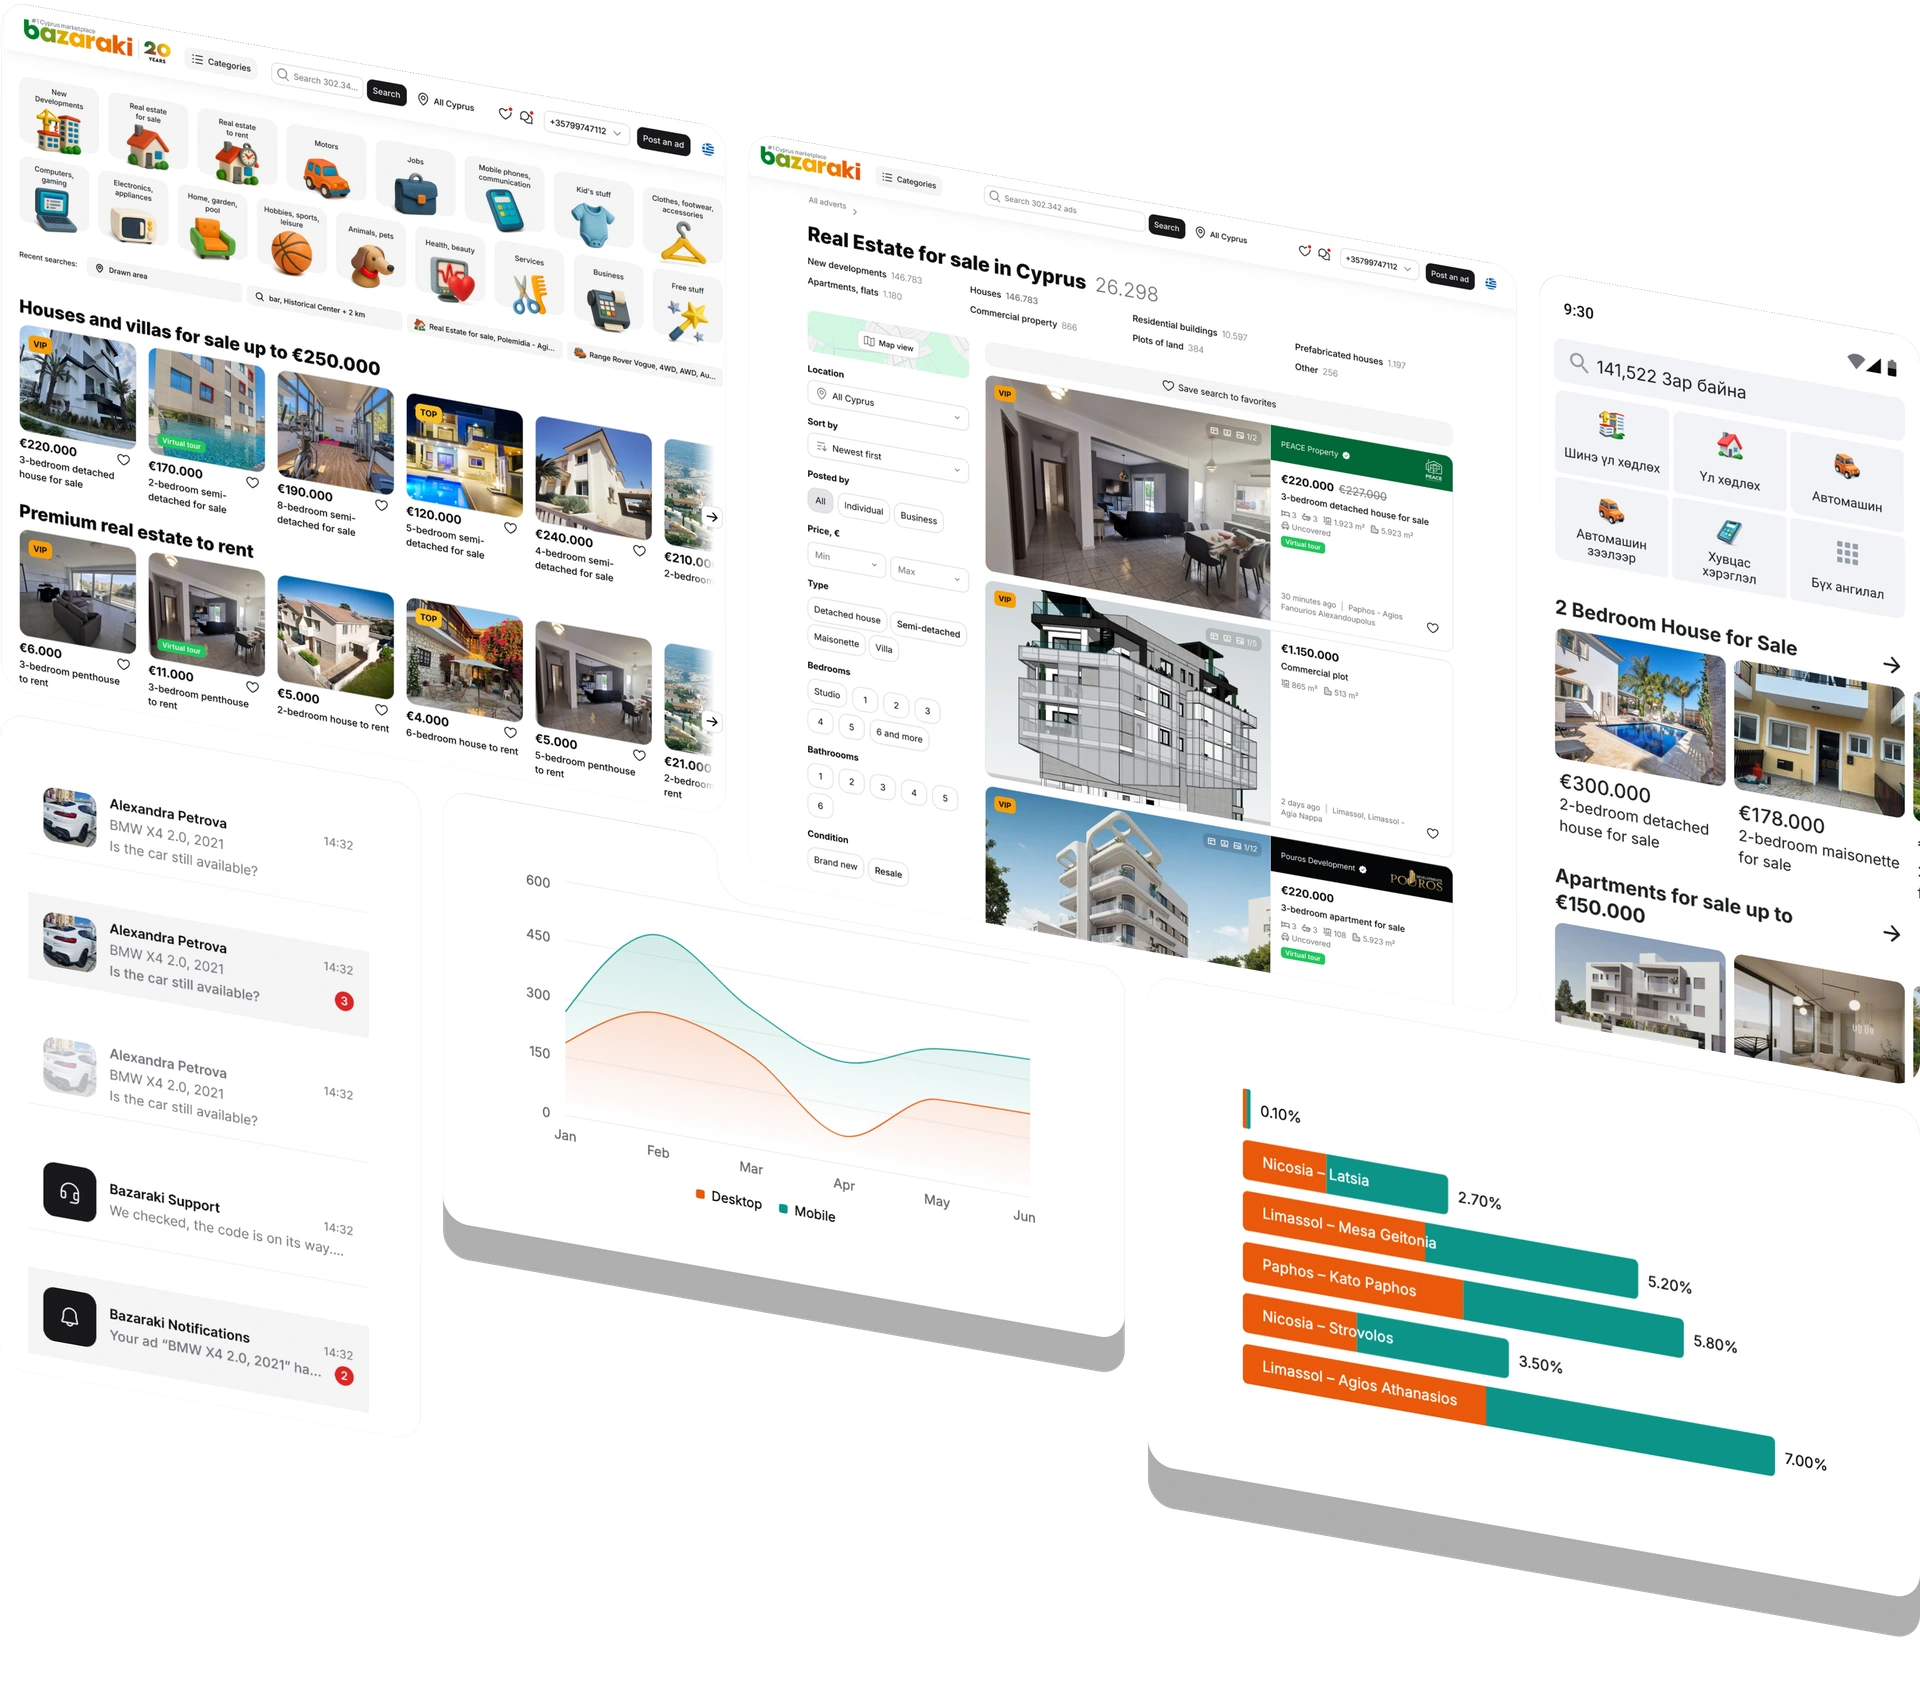
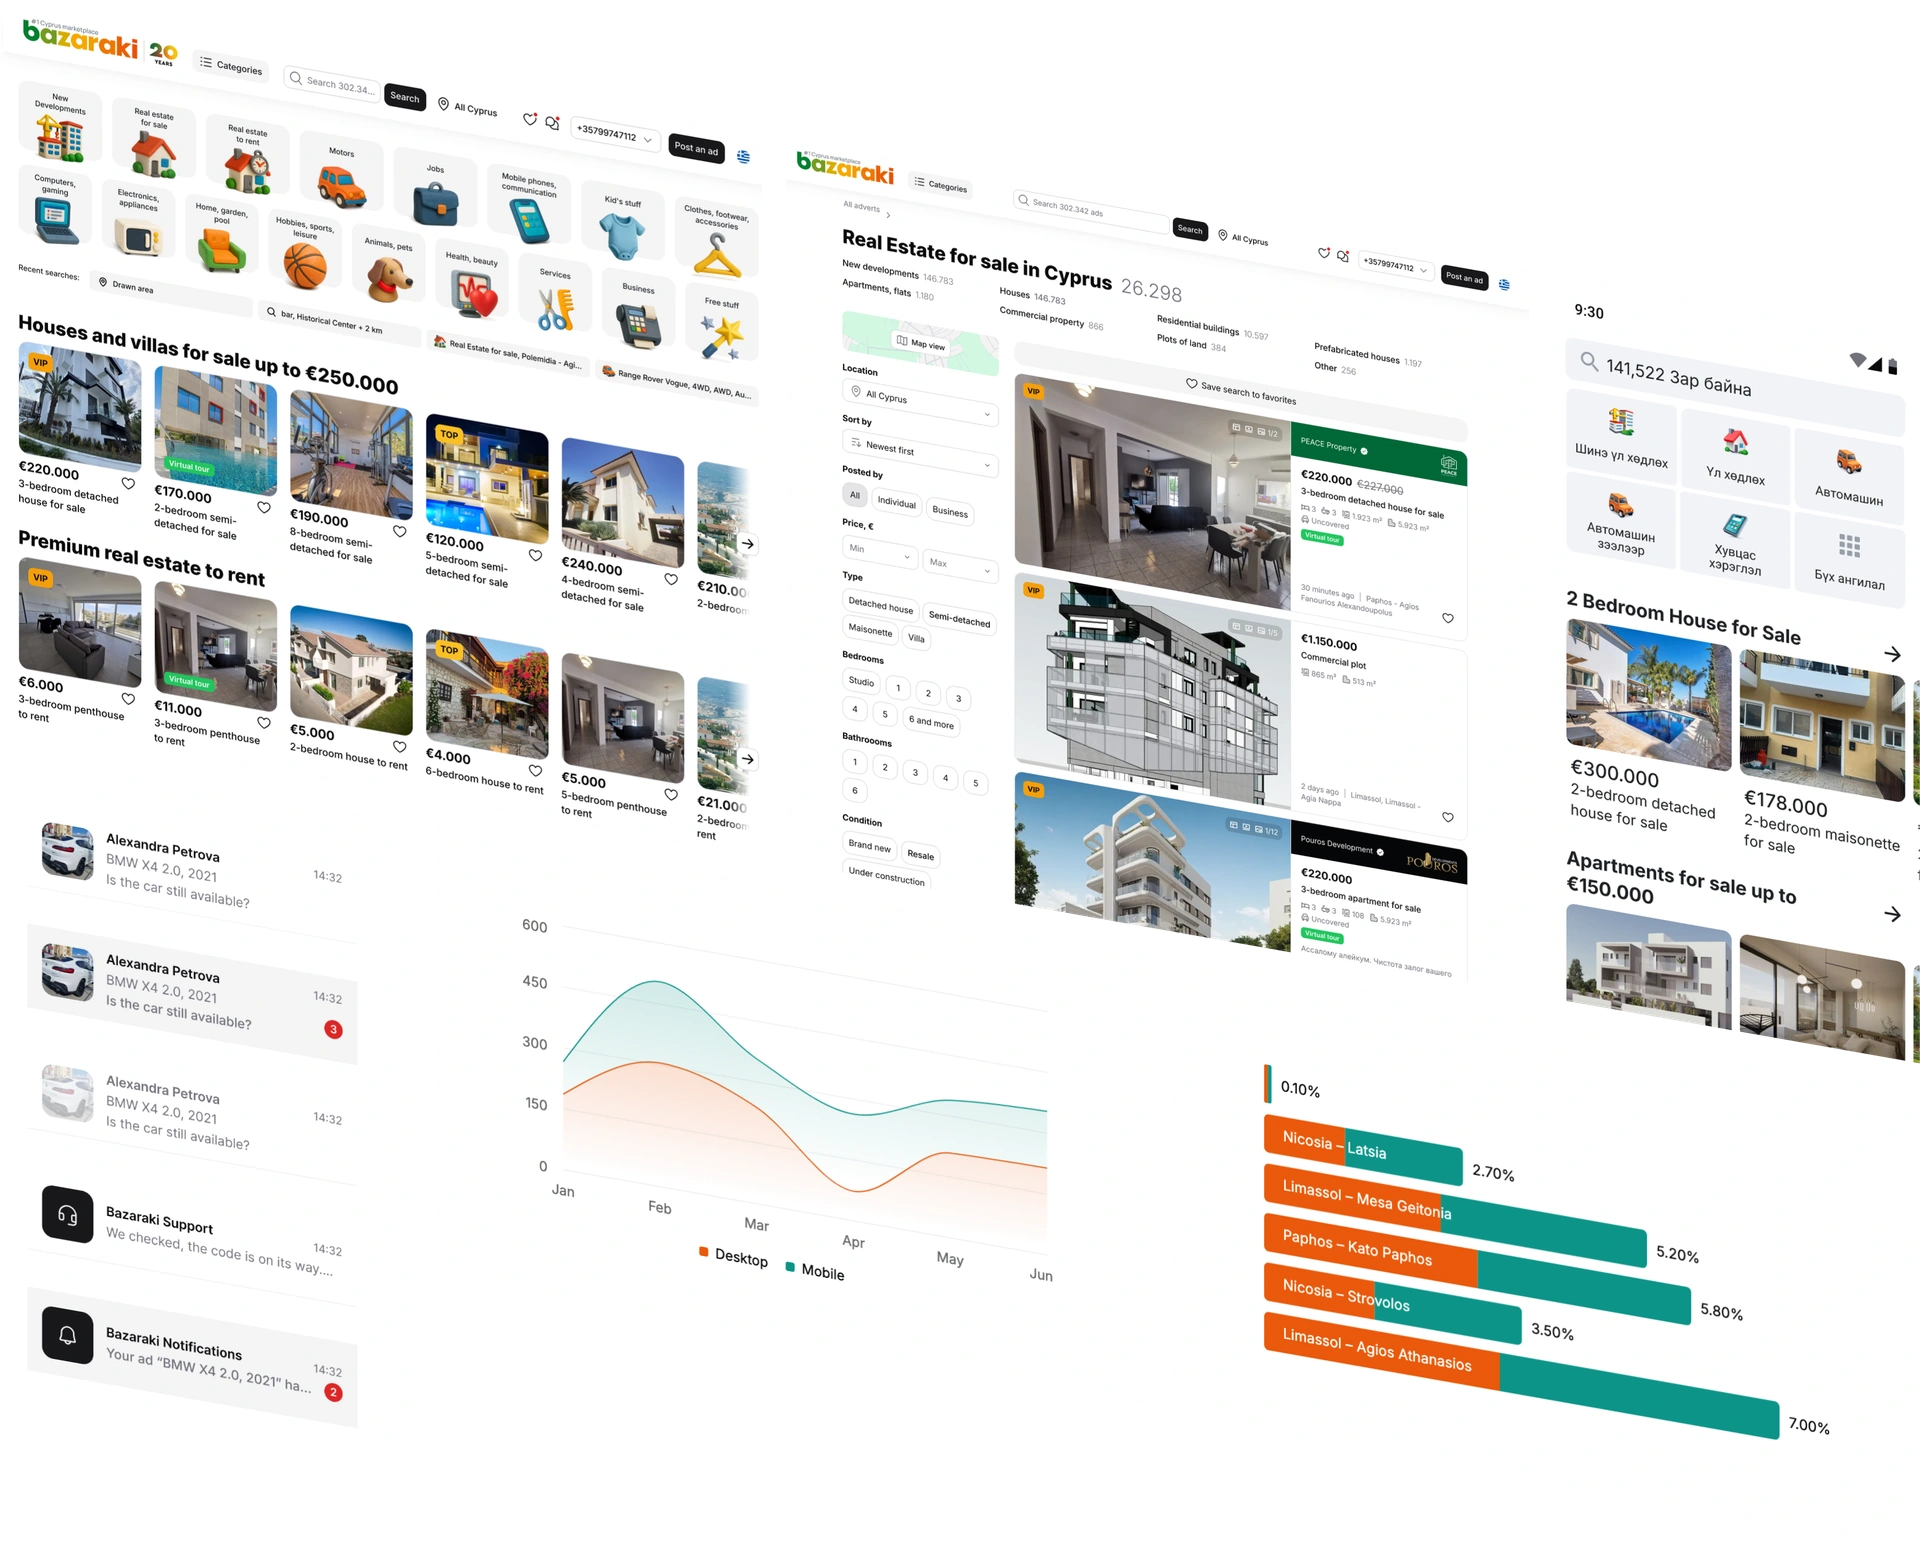
Update Larixon isometry with square white screen backings
Local v3 source: c282f21c12552fe18ebde78fcc746a8048449456
Preserves all 650 files outside the managed v3 files.

diff --git a/3/index.html b/3/index.html
@@ -1,5 +1,5 @@
 <!doctype html>
-<html lang="en" data-build="3ed66165588c">
+<html lang="en" data-build="f20036408fb2">
 <head>
   <meta charset="utf-8">
   <meta name="viewport" content="width=device-width, initial-scale=1">
@@ -10,7 +10,7 @@
   <link rel="icon" href="data:,">
   <!-- First case cover: same srcset/sizes as its eager img, so exactly one
        variant is fetched and reused. No href: no fallback double download. -->
-  <link rel="preload" as="image" imagesrcset="/3/assets/case-covers/larixon-isometric-480-q94.webp?v=55f0a5ab4610 480w,/3/assets/case-covers/larixon-isometric-768-q94.webp?v=04065790d4b3 768w,/3/assets/case-covers/larixon-isometric-1200-q94.webp?v=ab0d084f5d51 1200w,/3/assets/case-covers/larixon-isometric-1920-q94.webp?v=5991105d762d 1920w" imagesizes="(max-width:480px) calc(94.13265vw - 45.18367px),(max-width:800px) calc(94.13265vw - 75.30612px),(max-width:1100px) calc(47.06633vw - 48.94898px),(max-width:1296px) calc(47.06633vw - 56.47959px),553.5px" fetchpriority="high">
+  <link rel="preload" as="image" imagesrcset="/3/assets/case-covers/larixon-isometric-480-q94.webp?v=0c0358bd31a9 480w,/3/assets/case-covers/larixon-isometric-768-q94.webp?v=0d58446df47a 768w,/3/assets/case-covers/larixon-isometric-1200-q94.webp?v=96f03d764c7c 1200w,/3/assets/case-covers/larixon-isometric-1920-q94.webp?v=718281acd315 1920w" imagesizes="(max-width:480px) calc(94.13265vw - 45.18367px),(max-width:800px) calc(94.13265vw - 75.30612px),(max-width:1100px) calc(47.06633vw - 48.94898px),(max-width:1296px) calc(47.06633vw - 56.47959px),553.5px" fetchpriority="high">
   <script>
   // Android touch devices get a static portrait backdrop. Set before first paint
   // so a cold tap never shows the animated mesh. Same test as the player choice.
@@ -57,7 +57,7 @@
   <script type="module" src="/3/components/avatar.js?v=11046417f195"></script>
   <link rel="stylesheet" href="/3/components/case-cards.css?v=cd3cdb507a05">
   <link rel="stylesheet" href="/3/components/card-gradient.css?v=da34ba743426">
-  <script type="module" src="/3/components/case-cards.js?v=4f8c9619908c"></script>
+  <script type="module" src="/3/components/case-cards.js?v=452951a842ba"></script>
   <link rel="stylesheet" href="/3/components/contact.css?v=e5118660c600">
   <link rel="stylesheet" href="/3/components/contact-gradient.css?v=d2204a9655d2">
   <script type="module" src="/3/components/contact.js?v=7502722c439d"></script>

diff --git a/3/components/case-cards.js b/3/components/case-cards.js
@@ -3,8 +3,8 @@ import {mountCardGradients} from './card-gradient.js?v=05712b4738ae';
 import {mountCardStack,cardStackFrame} from './card-stack-motion.js?v=9c8930ddd3f2';
 const projects=[
  {id:'larixon',prefix:'Building for',company:'Larixon Classifieds',tail:'a design function across markets and product teams with 5M MAU.',logo:'larixon.svg?v=0165cbf89d57',cover:{
-  src:'/3/assets/case-covers/larixon-isometric-1200-q94.webp?v=ab0d084f5d51',width:1200,height:1066,
-  srcset:'/3/assets/case-covers/larixon-isometric-480-q94.webp?v=55f0a5ab4610 480w,/3/assets/case-covers/larixon-isometric-768-q94.webp?v=04065790d4b3 768w,/3/assets/case-covers/larixon-isometric-1200-q94.webp?v=ab0d084f5d51 1200w,/3/assets/case-covers/larixon-isometric-1920-q94.webp?v=5991105d762d 1920w',
+  src:'/3/assets/case-covers/larixon-isometric-1200-q94.webp?v=96f03d764c7c',width:1200,height:969,
+  srcset:'/3/assets/case-covers/larixon-isometric-480-q94.webp?v=0c0358bd31a9 480w,/3/assets/case-covers/larixon-isometric-768-q94.webp?v=0d58446df47a 768w,/3/assets/case-covers/larixon-isometric-1200-q94.webp?v=96f03d764c7c 1200w,/3/assets/case-covers/larixon-isometric-1920-q94.webp?v=718281acd315 1920w',
   alt:'Isometric illustration of Larixon Classifieds product screens'}},
  {id:'brokerage',prefix:'Designing for',company:'Raiffeisen Bank',tail:'a professional trading terminal for 500+ institutional clients.',logo:'logo-raiffeisen.svg?v=74f1746e3599',cover:{
   src:'/3/assets/case-covers/brokerage-isometric-1200-q94.webp?v=428f9b9cb724',width:1200,height:1196,
